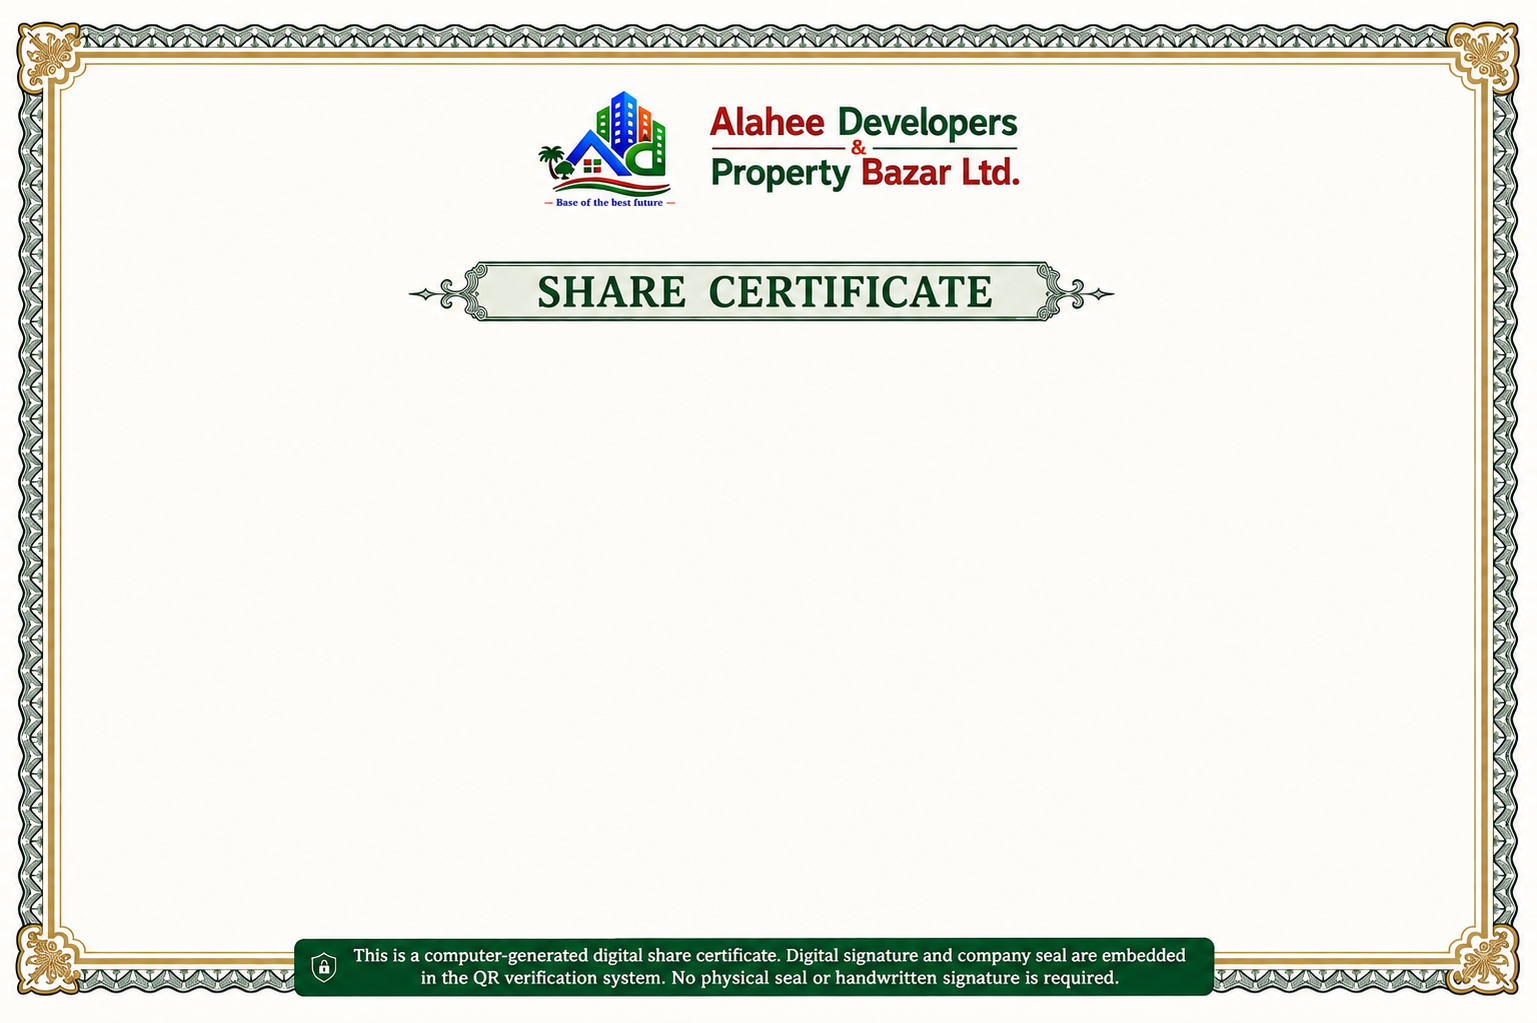
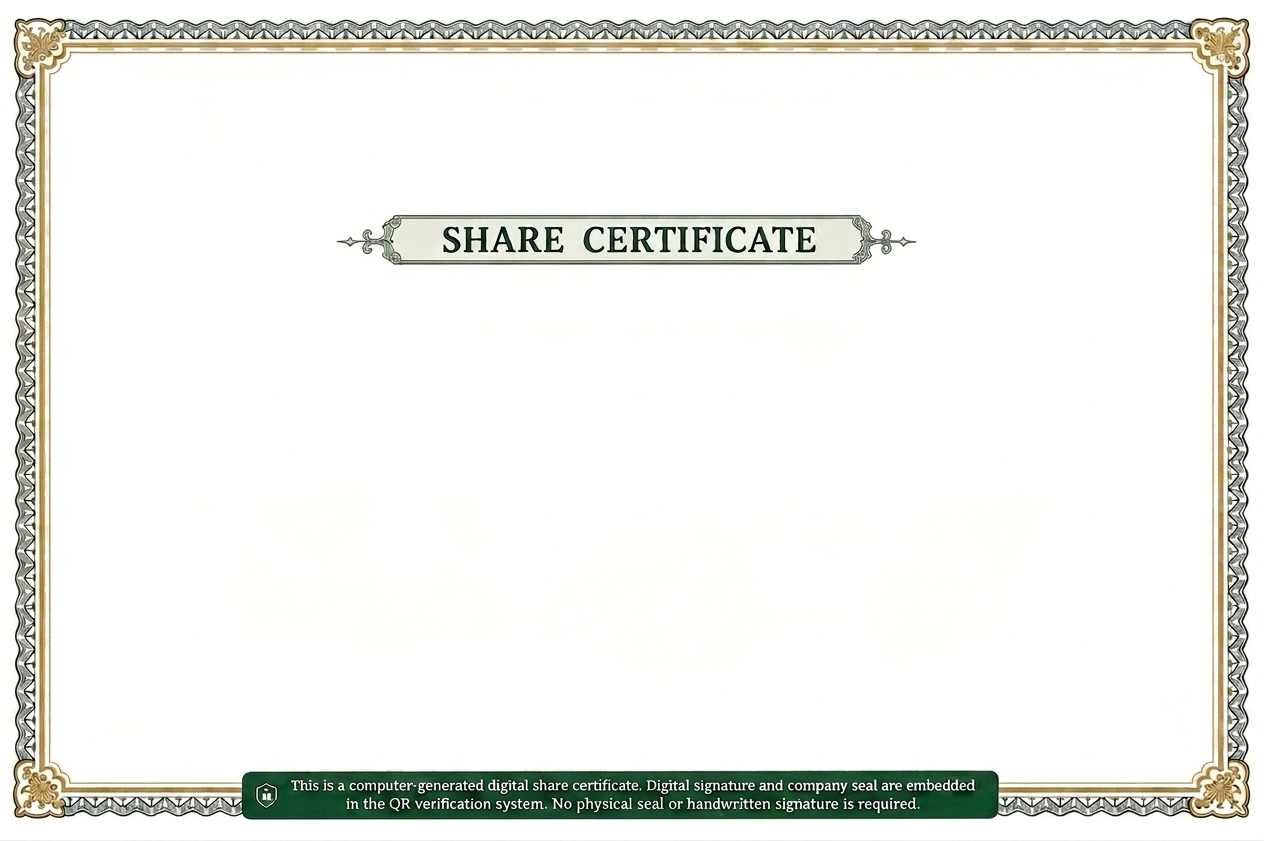
Create initial server

diff --git a/src/app/project/controller.ts b/src/app/project/controller.ts
@@ -9,18 +9,16 @@ import { Category } from "../category/model";
 const BATCH_SIZE = 1000;
 
 /**
- * Generate a unique, readable share number using project ID and sequential counter
- * Format: ADPBL-{projectPrefix}-{sequentialNumber}
- * Example: ADPBL-A1B2-00001, ADPBL-C3D4-00002
+ * Generate a unique, readable share number using project prefix and sequential counter
+ * Format: {sharePrefix}-{sequentialNumber}
+ * Example: ABC-00001, XYZ-00002
  */
 function generateShareNumber(
-  projectId: string,
+  sharePrefix: string,
   sequentialNumber: number
 ): string {
-  // Take first 2 and last 2 characters from project ID to create a unique prefix
-  const projectPrefix = projectId.slice(-4).toUpperCase();
   const paddedNumber = String(sequentialNumber).padStart(4, "0");
-  return `ADPBL-${projectPrefix}-${paddedNumber}`;
+  return `${sharePrefix.toUpperCase()}-${paddedNumber}`;
 }
 
 /**
@@ -68,12 +66,25 @@ export const createShare = async (
     const totalShares: number = Number(req.body.totalShares ?? 0);
     const projectId = await generateCustomId("PRJ");
 
-    const pkg = await Project.create({ ...defaults, ...req.body, totalShares, projectId });
+    // Validate sharePrefix
+    const sharePrefix: string = (req.body.sharePrefix ?? "").trim().toUpperCase();
+    if (!sharePrefix) {
+      return res.status(400).json({ message: "sharePrefix is required" });
+    }
+
+    // Check prefix uniqueness across all projects
+    const existing = await Project.findOne({ sharePrefix });
+    if (existing) {
+      return res.status(400).json({
+        message: `প্রিফিক্স "${sharePrefix}" অলরেডি ব্যবহার করা হয়েছে। অনুগ্রহ করে ভিন্ন একটি প্রিফিক্স ব্যবহার করুন।`,
+        code: "PREFIX_ALREADY_USED",
+      });
+    }
+
+    const pkg = await Project.create({ ...defaults, ...req.body, totalShares, projectId, sharePrefix });
 
     if (totalShares > 0) {
       // Atomically reserve a range of `totalShares` sequential numbers for this project.
-      // reserveShareRange returns the value *before* incrementing, so
-      // slot numbers are: start+1 … start+totalShares (1-based).
       const start = await reserveShareRange(pkg._id.toString(), totalShares);
 
       for (let batch = 0; batch < totalShares; batch += BATCH_SIZE) {
@@ -81,7 +92,7 @@ export const createShare = async (
         const end = Math.min(batch + BATCH_SIZE, totalShares);
         for (let i = batch; i < end; i++) {
           docs.push({
-            shareNumber: generateShareNumber(pkg._id.toString(), start + 1 + i),
+            shareNumber: generateShareNumber(pkg.sharePrefix, start + 1 + i),
             projectId: pkg._id,
             status: "available",
             userId: null,
@@ -207,7 +218,7 @@ export const updateShare = async (
         const end = Math.min(batch + BATCH_SIZE, diff);
         for (let i = batch; i < end; i++) {
           docs.push({
-            shareNumber: generateShareNumber(old._id.toString(), start + 1 + i),
+            shareNumber: generateShareNumber(old.sharePrefix, start + 1 + i),
             projectId: old._id,
             status: "available",
             userId: null,
@@ -445,7 +456,7 @@ export const backfillSlots = async (
       const end = Math.min(batch + BATCH_SIZE, diff);
       for (let i = batch; i < end; i++) {
         docs.push({
-          shareNumber: generateShareNumber(share._id.toString(), start + 1 + i),
+          shareNumber: generateShareNumber(share.sharePrefix, start + 1 + i),
           projectId: share._id,
           status: "available",
           userId: null,
@@ -563,6 +574,42 @@ export const getSharesWithStats = async (
       shares: shares.map((s) => ({ ...s, isActiveOffer: isOfferActive(s) })),
       stats,
     });
+  } catch (err) {
+    next(err);
+  }
+};
+
+// GET /share/check-prefix/:prefix — check if a sharePrefix is already in use
+export const checkSharePrefix = async (
+  req: Request,
+  res: Response,
+  next: NextFunction
+) => {
+  try {
+    const prefix = (req.params.prefix ?? "").trim().toUpperCase();
+    if (!prefix) {
+      return res.status(400).json({ message: "Prefix is required" });
+    }
+
+    // If editing an existing project, allow excluding it from the check
+    const excludeId = req.query.excludeId as string | undefined;
+
+    const query: any = { sharePrefix: prefix };
+    if (excludeId) {
+      const mongoose = await import("mongoose");
+      query._id = { $ne: new mongoose.Types.ObjectId(excludeId) };
+    }
+
+    const existing = await Project.findOne(query).select("title sharePrefix").lean();
+
+    if (existing) {
+      return res.json({
+        available: false,
+        message: `প্রিফিক্স "${prefix}" অলরেডি ব্যবহার করা হয়েছে ("${existing.title}" প্রজেক্টে)। অনুগ্রহ করে ভিন্ন একটি প্রিফিক্স ব্যবহার করুন।`,
+      });
+    }
+
+    res.json({ available: true, message: "Prefix is available" });
   } catch (err) {
     next(err);
   }

diff --git a/src/app/project/model.ts b/src/app/project/model.ts
@@ -7,6 +7,7 @@ export interface IGenerationCommissionRate {
 
 export interface IProject extends Document {
   projectId: string;
+  sharePrefix: string; // Unique prefix for all share slots of this project
   title: string;
   description?: string;
   images: string[];
@@ -64,6 +65,7 @@ export interface IProject extends Document {
 const ProjectSchema = new Schema<IProject>(
   {
     projectId: { type: String, unique: true, sparse: true },
+    sharePrefix: { type: String, required: true, unique: true, uppercase: true, trim: true },
     title: { type: String, required: true },
     description: { type: String, default: "" },
     images: [{ type: String }],

diff --git a/src/app/project/routes.ts b/src/app/project/routes.ts
@@ -12,6 +12,7 @@ import {
   setCoverSlider,
   unsetCoverSlider,
   backfillSlots,
+  checkSharePrefix,
 } from "./controller";
 import { verifySuperAdmin, verifyStaff } from "../../middleware/auth";
 
@@ -22,6 +23,7 @@ router.get("/cover-slider", getCoverSlider);
 router.get("/stats", verifyStaff, getShareStats);
 router.get("/with-stats", verifyStaff, getSharesWithStats);
 router.get("/admin/all", verifyStaff, getSharesAdmin);
+router.get("/check-prefix/:prefix", verifyStaff, checkSharePrefix);
 
 // Public routes (user-facing) — only active shares
 router.get("/", getShares);
